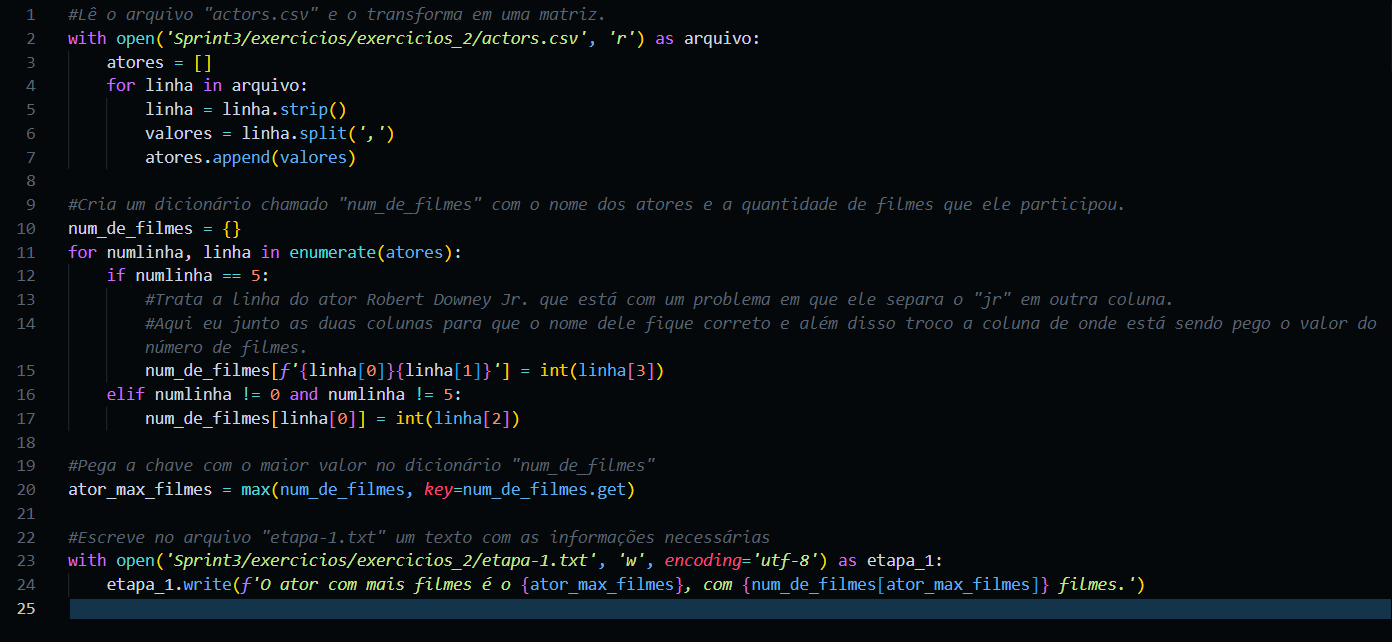
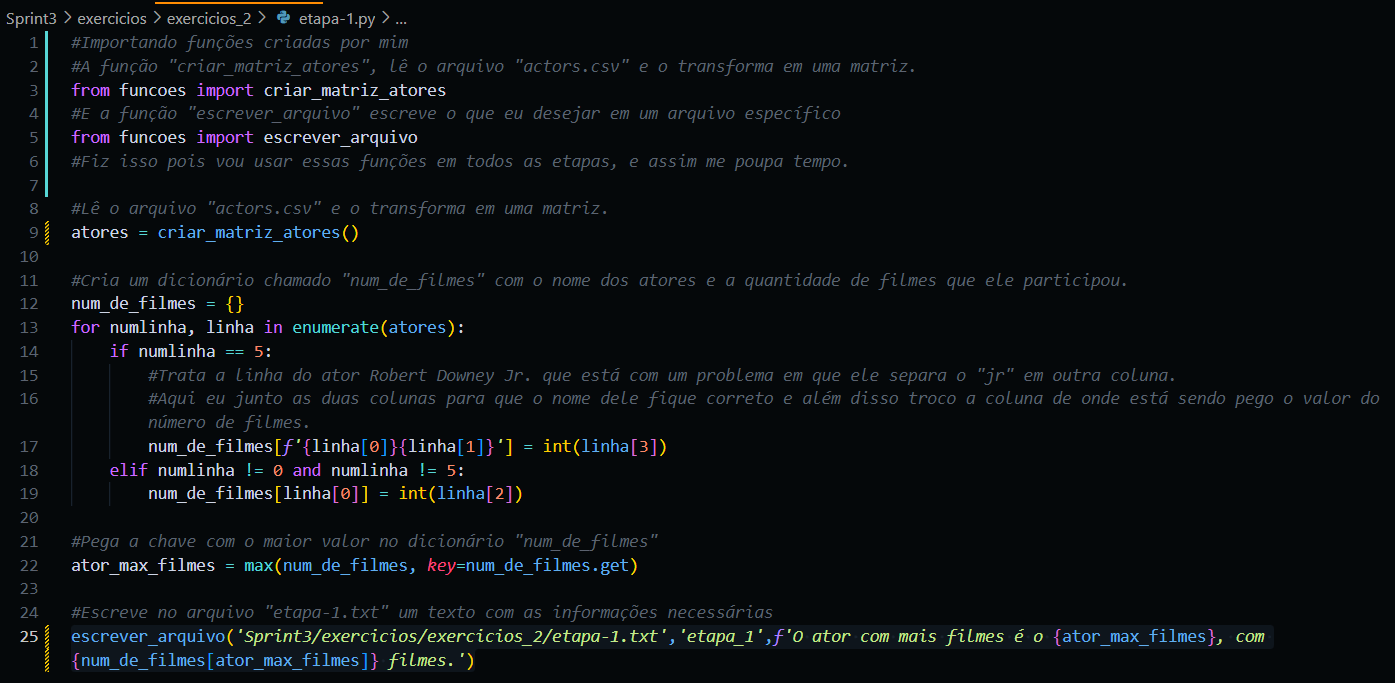
Inserindo arquivos do exercício de ETL

Changed region(s): [[0.0, 0.0, 1.0, 0.9969], [0.4016, 0.6231, 0.4634, 0.6854]]

diff --git a/Sprint3/exercicios/exercicios_2/etapa-2.py b/Sprint3/exercicios/exercicios_2/etapa-2.py
@@ -1,0 +1,28 @@
+#Importando funções criadas por mim
+#A função "criar_matriz_atores", lê o arquivo "actors.csv" e o transforma em uma matriz.
+from funcoes import criar_matriz_atores
+#E a função "escrever_arquivo" escreve o que eu desejar em um arquivo específico
+from funcoes import escrever_arquivo
+#Fiz isso pois vou usar essas funções em todos as etapas, e assim me poupa tempo.
+
+#Lê o arquivo "actors.csv" e o transforma em uma matriz.
+atores = criar_matriz_atores()
+
+#Criação da lista que armazenará as receitas brutas de todos os filmes.
+receitas_brutas_filmes = []
+
+#Adicionando os valores a lista "receitas_brutas_filmes".
+for numlinha, linha in enumerate(atores):
+    if numlinha == 5:
+        #Aqui a posição da coluna na matriz está diferente pois há um erro de escrita no documento que não poderia ser alterado.
+        #Com isso foi necessário realizar essa manobra.
+        receitas_brutas_filmes.append(float(linha[6]))
+    elif numlinha != 0 and numlinha != 5:
+        receitas_brutas_filmes.append(float(linha[5]))
+
+#Realiza a média dos valores da lista "receitas_brutas_filmes".
+media_receitas = sum(receitas_brutas_filmes)/len(receitas_brutas_filmes)
+
+#Escreve o valor da média no arquivo "etapa-2.txt"
+escrever_arquivo('Sprint3/exercicios/exercicios_2/etapa-2.txt','etapa_2',f'A média das receitas de todos os filmes, considerando todos os atores, é de {media_receitas} milhões de dólares.')
+

diff --git a/Sprint3/exercicios/exercicios_2/etapa-1.py b/Sprint3/exercicios/exercicios_2/etapa-1.py
@@ -1,10 +1,12 @@
+#Importando funções criadas por mim
+#A função "criar_matriz_atores", lê o arquivo "actors.csv" e o transforma em uma matriz.
+from funcoes import criar_matriz_atores
+#E a função "escrever_arquivo" escreve o que eu desejar em um arquivo específico
+from funcoes import escrever_arquivo
+#Fiz isso pois vou usar essas funções em todos as etapas, e assim me poupa tempo.
+
 #Lê o arquivo "actors.csv" e o transforma em uma matriz.
-with open('Sprint3/exercicios/exercicios_2/actors.csv', 'r') as arquivo:
-    atores = []
-    for linha in arquivo:
-        linha = linha.strip()
-        valores = linha.split(',')
-        atores.append(valores)
+atores = criar_matriz_atores()
 
 #Cria um dicionário chamado "num_de_filmes" com o nome dos atores e a quantidade de filmes que ele participou.
 num_de_filmes = {}
@@ -20,5 +22,4 @@ for numlinha, linha in enumerate(atores):
 ator_max_filmes = max(num_de_filmes, key=num_de_filmes.get)
 
 #Escreve no arquivo "etapa-1.txt" um texto com as informações necessárias
-with open('Sprint3/exercicios/exercicios_2/etapa-1.txt', 'w', encoding='utf-8') as etapa_1:    
-    etapa_1.write(f'O ator com mais filmes é o {ator_max_filmes}, com {num_de_filmes[ator_max_filmes]} filmes.')
+escrever_arquivo('Sprint3/exercicios/exercicios_2/etapa-1.txt','etapa_1',f'O ator com mais filmes é o {ator_max_filmes}, com {num_de_filmes[ator_max_filmes]} filmes.')

diff --git a/Sprint3/exercicios/exercicios_2/etapa-3.py b/Sprint3/exercicios/exercicios_2/etapa-3.py
@@ -1,0 +1,23 @@
+#Importando funções criadas por mim
+#A função "criar_matriz_atores", lê o arquivo "actors.csv" e o transforma em uma matriz.
+from funcoes import criar_matriz_atores
+#E a função "escrever_arquivo" escreve o que eu desejar em um arquivo específico
+from funcoes import escrever_arquivo
+#Fiz isso pois vou usar essas funções em todos as etapas, e assim me poupa tempo.
+
+#Lê o arquivo "actors.csv" e o transforma em uma matriz.
+atores = criar_matriz_atores()
+
+media_receita_atores = {}
+for numlinha, linha in enumerate(atores):
+    if numlinha == 5:
+        media_receita_atores[f'{linha[0]}{linha[1]}'] = float(linha[4])
+    elif numlinha != 0 and numlinha != 5:
+        media_receita_atores[linha[0]] = float(linha[3])
+
+#Pega a chave com o maior valor no dicionário "num_de_filmes"
+ator_max_receita = max(media_receita_atores, key=media_receita_atores.get)
+
+#Escreve no arquivo "etapa-1.txt" um texto com as informações necessárias
+escrever_arquivo('Sprint3/exercicios/exercicios_2/etapa-3.txt','etapa_3',f'O ator com a maior média de receita de bilheteria bruta por filme é o {ator_max_receita}.')
+

diff --git a/Sprint3/exercicios/exercicios_2/etapa-4.py b/Sprint3/exercicios/exercicios_2/etapa-4.py
@@ -1,0 +1,29 @@
+#Importando funções criadas por mim
+#A função "criar_matriz_atores", lê o arquivo "actors.csv" e o transforma em uma matriz.
+from funcoes import criar_matriz_atores
+#E a função "escrever_arquivo" escreve o que eu desejar em um arquivo específico
+
+#Lê o arquivo "actors.csv" e o transforma em uma matriz.
+atores = criar_matriz_atores()
+
+top1_filmes = []
+
+for numlinha, linha in enumerate(atores):
+    if numlinha == 5:
+        top1_filmes.append(linha[5])
+    elif numlinha != 0 and numlinha != 5:
+        top1_filmes.append(linha[4])
+
+aparicoes = dict.fromkeys(set(top1_filmes),0)
+
+for chave,valor in aparicoes.items():
+    for filme in top1_filmes:
+        if filme == chave:
+            aparicoes[chave] += 1
+
+aparicoes = dict(sorted(aparicoes.items(), key=lambda item: item[1], reverse=True))
+
+with open('Sprint3\exercicios\exercicios_2\etapa-4.txt', 'w', encoding='utf-8') as etapa_4:    
+    for seq, (chave, valor) in enumerate(aparicoes.items()):
+        etapa_4.write(f"{seq+1} - O filme {chave} aparece {valor} vez(es) no arquivo\n")
+

diff --git a/Sprint3/exercicios/exercicios_2/etapa-5.py b/Sprint3/exercicios/exercicios_2/etapa-5.py
@@ -1,0 +1,23 @@
+#Importando funções criadas por mim
+#A função "criar_matriz_atores", lê o arquivo "actors.csv" e o transforma em uma matriz.
+from funcoes import criar_matriz_atores
+#Fiz isso pois vou usar essas funções em todos as etapas, e assim me poupa tempo.
+
+#Lê o arquivo "actors.csv" e o transforma em uma matriz.
+atores = criar_matriz_atores()
+
+receita_atores = {}
+for numlinha, linha in enumerate(atores):
+    if numlinha == 5:
+        receita_atores[f'{linha[0]}{linha[1]}'] = float(linha[2])
+    elif numlinha != 0 and numlinha != 5:
+        receita_atores[linha[0]] = float(linha[1])
+
+receita_atores = dict(sorted(receita_atores.items(), key=lambda item: item[1], reverse=True))
+
+#Escreve no arquivo "etapa-1.txt" um texto com as informações necessárias
+with open('Sprint3\exercicios\exercicios_2\etapa-5.txt', 'w', encoding='utf-8') as etapa_5:    
+    for chave, valor in receita_atores.items():
+        etapa_5.write(f"{chave} - {valor}\n")
+
+        

diff --git a/Sprint3/exercicios/exercicios_2/Scripts André/script4.py b/Sprint3/exercicios/exercicios_2/Scripts André/script4.py
@@ -1,0 +1,21 @@
+from collections import Counter
+caminho_arquivo = 'actors.csv'
+caminho_etapa_4 = 'etapa4.txt'
+dados_processados = []
+
+with open(caminho_arquivo, 'r') as arquivo:
+    arquivo.readline()
+    for linha in arquivo:
+        linha = linha.strip()
+        partes = linha.split(',')
+        while len(partes) > 6:
+            partes[0] += ',' + partes.pop(1)
+        filme_top = partes[4].strip()
+        dados_processados.append(filme_top)
+
+contagem_filmes_top = Counter(dados_processados)
+filmes_ordenados = sorted(contagem_filmes_top.items(), key=lambda x: (-x[1], x[0]))
+with open(caminho_etapa_4, 'w') as arquivo_saida:
+    arquivo_saida.write("Contagem de aparições dos filmes de maior bilheteria\n")
+    for filme, contagem in filmes_ordenados:
+        arquivo_saida.write(f"O filme {filme} aparece {contagem} vez(es) no arquivo\n")

diff --git a/Sprint3/exercicios/exercicios_2/Scripts André/script3.py b/Sprint3/exercicios/exercicios_2/Scripts André/script3.py
@@ -1,0 +1,18 @@
+caminho_arquivo = 'actors.csv'
+caminho_etapa_3 = 'etapa3.txt'
+dados_processados = []
+
+with open(caminho_arquivo, 'r') as arquivo:
+    arquivo.readline()
+    for linha in arquivo:
+        linha = linha.strip()
+        partes = linha.split(',')
+        while len(partes) > 6:
+            partes[0] += ',' + partes.pop(1)
+        ator = partes[0].strip()
+        media_por_filme = float(partes[3].strip())
+        dados_processados.append((ator, media_por_filme))
+
+ator_maior_media_por_filme = max(dados_processados, key=lambda x: x[1])
+with open(caminho_etapa_3, 'w') as arquivo_saida:
+    arquivo_saida.write(f"Ator/Atriz com a maior média de receita por filme: {ator_maior_media_por_filme[0]} Média de receita por filme {ator_maior_media_por_filme[1]:.2f}")

diff --git a/Sprint3/exercicios/exercicios_2/funcoes.py b/Sprint3/exercicios/exercicios_2/funcoes.py
@@ -1,0 +1,17 @@
+def criar_matriz_atores():
+    with open('Sprint3/exercicios/exercicios_2/actors.csv', 'r') as arquivo:
+        atores = []
+        for linha in arquivo:
+            linha = linha.strip()
+            valores = linha.split(',')
+            atores.append(valores)
+    return atores
+
+#A função "criar_matriz_atores" resumidamente cria uma matriz(Lista de listas) que contem todas as linhas do arquivo "actors.csv".
+
+def escrever_arquivo(caminho,nome_arquivo,texto):
+    with open(caminho, 'w', encoding='utf-8') as nome_arquivo:    
+        nome_arquivo.write(texto)
+
+#A função "escrever_arquivo" me permite inserir uma mensagem no arquivo que desejar.
+

diff --git a/Sprint3/exercicios/exercicios_2/Scripts André/script1.py b/Sprint3/exercicios/exercicios_2/Scripts André/script1.py
@@ -1,0 +1,18 @@
+with open('actors.csv', 'r') as file:
+    resultado = []
+    for linha in file:
+        palavras = linha.rsplit(',', 5)
+        resultado.append(palavras[:])
+
+numerofilmes = []
+for coluna in resultado[1::]:
+    numerofilmes.append(coluna[2])
+    maior = max(numerofilmes)
+    if coluna[2] == maior:
+        ator= coluna[0]
+print(ator, maior)
+
+with open ('etapa1.txt', 'w', encoding='utf-8') as text:
+    text.write('Apresente o ator/atriz com maior número de filmes e a respectiva quantidade:')
+    text.write('\nAtor com mais filmes: {}, quantidade filmes: {}.'.format(ator, maior))
+    text.close()

diff --git a/Sprint3/exercicios/exercicios_2/Scripts André/script2.py b/Sprint3/exercicios/exercicios_2/Scripts André/script2.py
@@ -1,0 +1,11 @@
+with open('actors.csv', 'r') as file:
+    resultado = []
+    for linha in file:
+        palavras = linha.rsplit(',', 5)
+        resultado.append(palavras[:])
+
+for coluna in resultado[1::]:
+    faturamentototal = coluna[3]
+    with open ('etapa2.txt', 'at', encoding='utf-8') as text:
+        text.write('Ator/atriz {} possui média de faturamento bruto{}.\n'.format(coluna[0],faturamentototal).replace('"',''))
+        text.close()

diff --git a/Sprint3/exercicios/exercicios_2/Scripts André/script5.py b/Sprint3/exercicios/exercicios_2/Scripts André/script5.py
@@ -1,0 +1,9 @@
+with open('actors.csv', 'r') as file:
+    resultado = []
+    for linha in file:
+        palavras = linha.rsplit(',',5)
+        resultado.append(palavras[:])
+
+for coluna in resultado [1::]:
+    with open ('etapa5.txt', 'at', encoding='utf-8') as text:
+        text.write('Ator: {} | Faturamento Bruto Total: {}\n'.format(coluna[0],coluna[1]).replace('"',''))
